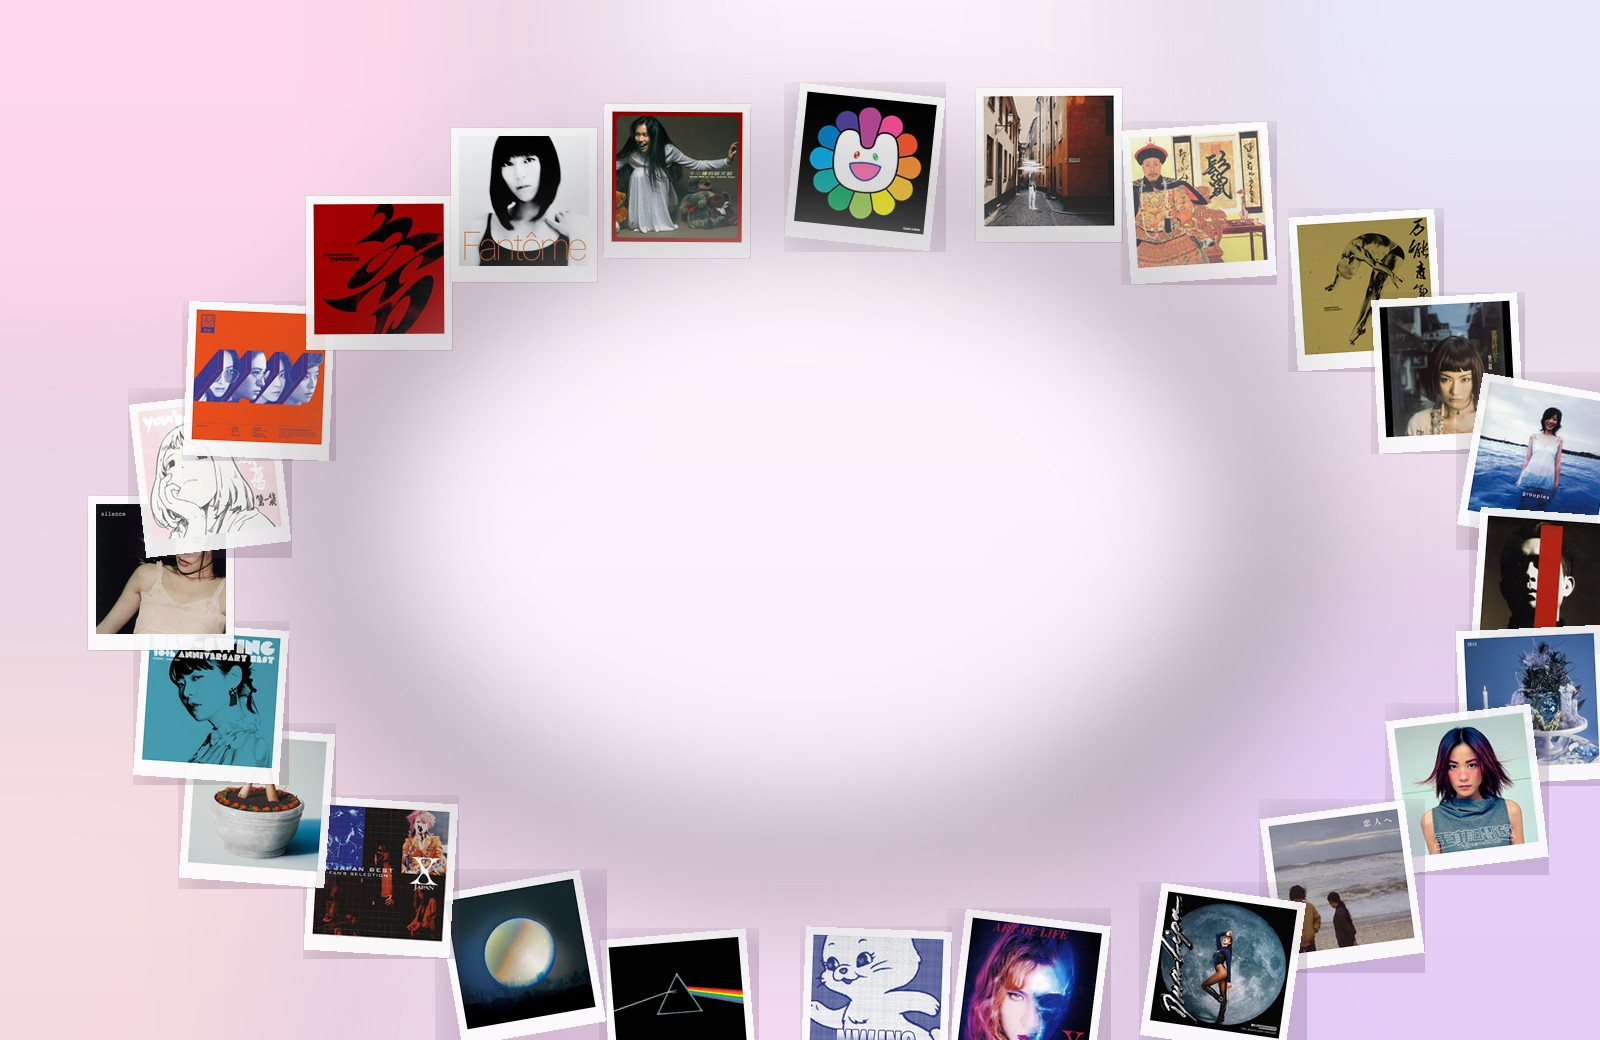
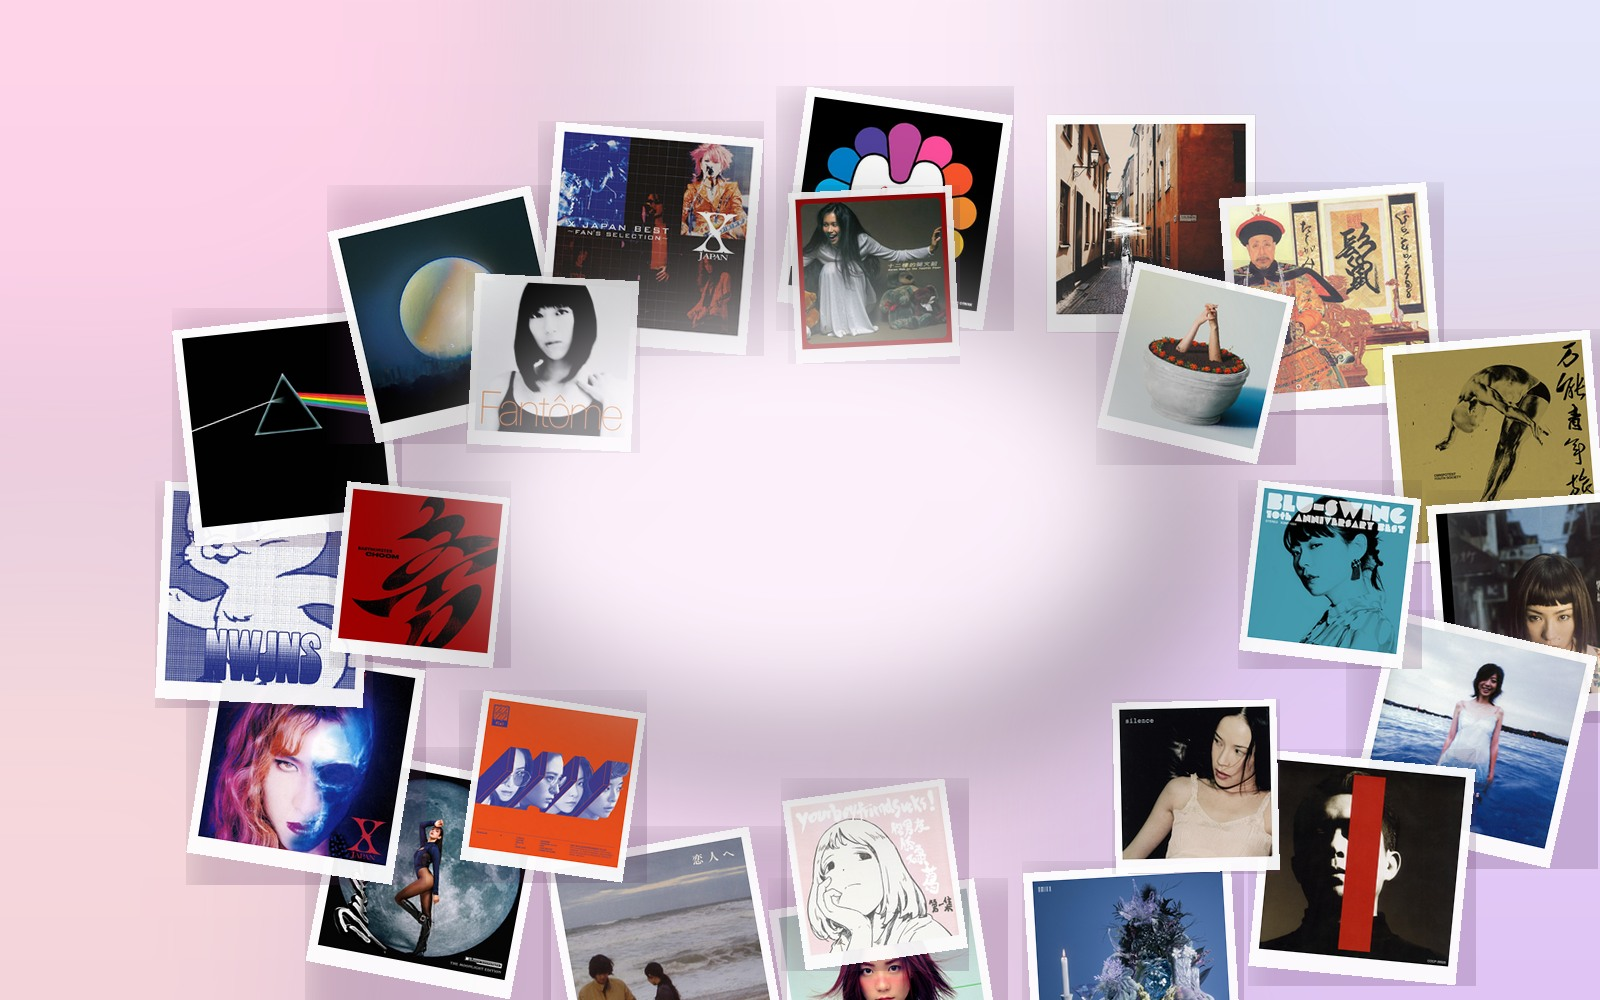
2.0: 封面占比放大+中间封面带+可拖动无封面播放器+像素装饰+修复播放器层级BUG

diff --git a/style.css b/style.css
@@ -160,18 +160,19 @@ body {
 /* ---------- Welcome：唱片拼贴墙 ---------- */
 .welcome {
   position: relative;
-  max-width: 880px;
-  margin: 4vh auto 0;
-  min-height: 500px;
+  max-width: 1080px;
+  margin: 3vh auto 0;
+  min-height: 640px;
   border-radius: 22px;
   overflow: hidden;
   display: flex;
   flex-direction: column;
   align-items: center;
   justify-content: center;
-  padding: 48px 32px 42px;
+  padding: 54px 32px 46px;
   text-align: center;
   border: 1px solid rgba(255,255,255,0.6);
+  /* 背景放大铺满，四周封面裁切少、占比高 */
   background: url('assets/supernatural-collage-bg.jpg') center/cover;
   box-shadow: 0 16px 50px rgba(120,80,130,0.18);
 }
@@ -183,6 +184,21 @@ body {
   animation: flow 8s linear infinite;
 }
 @keyframes flow { to { background-position: 200% 0; } }
+
+/* 像素装饰点缀（四周角落，避开中心文字） */
+.pixel-deco {
+  position: absolute; pointer-events: none; z-index: 1;
+  image-rendering: pixelated; image-rendering: crisp-edges;
+  filter: drop-shadow(0 4px 6px rgba(90,40,70,0.28));
+  animation: pdFloat 5s ease-in-out infinite;
+}
+@keyframes pdFloat { 0%,100% { transform: translateY(0); } 50% { transform: translateY(-7px); } }
+.pd-picklejar { left: 3.5%; bottom: 12%; width: 44px; animation-delay: 0s; }
+.pd-crystal   { right: 4%; top: 14%; width: 46px; animation-delay: 0.8s; }
+.pd-mushroom  { left: 5%; top: 18%; width: 40px; animation-delay: 1.6s; }
+.pd-spring    { right: 3.5%; bottom: 15%; width: 46px; animation-delay: 2.2s; }
+.pd-barrel    { left: 10%; top: 48%; width: 40px; animation-delay: 1.1s; opacity: 0.92; }
+.pd-tree      { right: 9%; bottom: 42%; width: 38px; animation-delay: 2.8s; opacity: 0.92; }
 
 /* 黑胶唱片装饰 */
 .vinyl-deco { position: absolute; top: 26px; right: 34px; width: 130px; height: 130px; opacity: 0.9; pointer-events: none; }
@@ -253,6 +269,21 @@ body {
   color: #6b5768; font-size: 12.5px; line-height: 1.7; margin-bottom: 22px; max-width: 560px;
   text-shadow: 0 1px 8px rgba(255,255,255,0.95);
 }
+
+/* 中间封面缩略图带 */
+.welcome-strip {
+  display: flex; align-items: center; justify-content: center; gap: 0;
+  margin: 2px 0 20px; max-width: 100%;
+}
+.welcome-strip img {
+  width: 62px; height: 62px; object-fit: cover; border-radius: 9px;
+  margin: 0 -6px; border: 2px solid #fff;
+  box-shadow: 0 4px 14px rgba(120,50,90,0.22);
+  transition: transform 0.2s, box-shadow 0.2s;
+}
+.welcome-strip img:nth-child(odd) { transform: translateY(4px) rotate(-5deg); }
+.welcome-strip img:nth-child(even) { transform: translateY(-4px) rotate(4deg); }
+.welcome-strip img:hover { transform: translateY(-10px) rotate(0) scale(1.12); box-shadow: 0 8px 22px rgba(120,50,90,0.34); z-index: 2; }
 
 .welcome-tips { display: flex; gap: 10px; justify-content: center; flex-wrap: wrap; max-width: 660px; }
 .tip-card {
@@ -385,10 +416,10 @@ body {
 
 /* ---------- Music Player ---------- */
 .music-player {
-  position: fixed; right: 22px; bottom: 96px; z-index: 25;
-  width: 230px; padding: 14px 15px 13px;
+  position: fixed; right: 22px; bottom: 168px; z-index: 60;
+  width: 224px; padding: 0 15px 13px;
   border-radius: 18px;
-  background: rgba(255,255,255,0.9);
+  background: rgba(255,255,255,0.92);
   border: 1px solid rgba(224,46,106,0.18);
   backdrop-filter: blur(16px);
   box-shadow: 0 14px 40px rgba(150,70,110,0.22);
@@ -396,21 +427,22 @@ body {
   transform-origin: bottom right;
 }
 .music-player.collapsed { transform: scale(0.6) translate(40px, 30px); opacity: 0; pointer-events: none; }
-body[data-theme="dark"] .music-player { background: rgba(28,26,36,0.92); border-color: rgba(255,77,126,0.25); }
+.music-player.dragging { transition: none; box-shadow: 0 18px 50px rgba(150,70,110,0.34); }
+body[data-theme="dark"] .music-player { background: rgba(28,26,36,0.94); border-color: rgba(255,77,126,0.25); }
+.mp-dragbar {
+  display: flex; align-items: center; gap: 7px;
+  padding: 10px 0 8px; cursor: grab; user-select: none;
+}
+.mp-dragbar:active { cursor: grabbing; }
+.mp-grip { color: var(--text-muted); font-size: 15px; line-height: 1; letter-spacing: -2px; }
+.mp-drag-label { flex: 1; font-size: 10px; letter-spacing: 2px; color: var(--text-muted); font-weight: 700; text-transform: uppercase; }
 .mp-collapse {
-  position: absolute; top: 8px; right: 9px; width: 22px; height: 22px;
+  width: 22px; height: 22px; flex-shrink: 0;
   border: none; background: transparent; color: var(--text-muted);
   cursor: pointer; font-size: 15px; line-height: 1; border-radius: 6px;
 }
 .mp-collapse:hover { background: var(--hover); color: var(--text); }
 .mp-head { display: flex; align-items: center; gap: 11px; }
-.mp-cover {
-  width: 50px; height: 50px; flex-shrink: 0; border-radius: 11px; overflow: hidden;
-  box-shadow: 0 4px 12px rgba(120,50,90,0.28); background: var(--hover);
-}
-.mp-cover img { width: 100%; height: 100%; object-fit: cover; display: block; }
-.mp-cover.spin img { animation: mpSpin 9s linear infinite; border-radius: 50%; }
-@keyframes mpSpin { to { transform: rotate(360deg); } }
 .mp-meta { min-width: 0; flex: 1; }
 .mp-song {
   font-size: 13px; font-weight: 700; color: var(--text);
@@ -442,7 +474,7 @@ body[data-theme="dark"] .music-player { background: rgba(28,26,36,0.92); border-
 }
 .mp-btn.mp-play:hover { color: #fff; filter: brightness(1.08); }
 .mp-fab {
-  position: fixed; right: 22px; bottom: 30px; z-index: 24;
+  position: fixed; right: 22px; bottom: 30px; z-index: 59;
   width: 46px; height: 46px; border-radius: 50%; border: none; cursor: pointer;
   background: linear-gradient(135deg, #ff4d7e, #ff7a5c); color: #fff;
   font-size: 20px; box-shadow: 0 6px 18px rgba(255,77,126,0.45);
@@ -463,6 +495,12 @@ body[data-theme="dark"] .music-player { background: rgba(28,26,36,0.92); border-
   .welcome { margin-top: 0; min-height: 480px; padding: 36px 18px 30px; }
   .welcome h1 { font-size: 29px; }
   .welcome-icon { width: 72px; height: 72px; }
+  .welcome-strip { margin-bottom: 16px; }
+  .welcome-strip img { width: 44px; height: 44px; margin: 0 -8px; }
+  .pixel-deco { width: 30px !important; opacity: 0.8; }
+  .pd-barrel, .pd-tree { display: none; }
+  .music-player { right: 12px; bottom: 84px; }
+  .mp-fab { right: 14px; bottom: 22px; }
   .model-badge { display: none; }
   .two-col { grid-template-columns: 1fr; }
 }

diff --git a/player.js b/player.js
@@ -1,18 +1,18 @@
-/* 腌鱼 · 悬浮音乐播放器 */
+/* 腌鱼 · 悬浮音乐播放器（可拖动 / 可收起） */
 (function () {
   var tracks = [
-    { song: 'Supernatural', artist: 'NewJeans', src: 'assets/music/01-supernatural.mp3', cover: 'assets/covers/01-newjeans-flower.jpg' },
-    { song: '丸ノ内サディスティック', artist: '椎名林檎', src: 'assets/music/02-marunouchi.mp3', cover: 'assets/covers/05-shiina-ringoku.jpg' },
-    { song: '寂寞的恋人啊', artist: '莫文蔚', src: 'assets/music/03-lonely-lover.mp3', cover: 'assets/covers/24-karenmok-12floor.jpg' },
-    { song: '映画と雨降りの朝', artist: 'GO!GO!7188', src: 'assets/music/04-rainy-morning.mp3', cover: 'assets/covers/02-alley-light.jpg' },
-    { song: 'Levitating', artist: 'Dua Lipa', src: 'assets/music/05-levitating.mp3', cover: 'assets/covers/15-bubble-city.jpg' },
-    { song: 'Stairway to Heaven', artist: 'Led Zeppelin', src: 'assets/music/06-stairway.mp3', cover: 'assets/covers/14-pinkfloyd.jpg' }
+    { song: 'Supernatural', artist: 'NewJeans', src: 'assets/music/01-supernatural.mp3' },
+    { song: '丸ノ内サディスティック', artist: '椎名林檎', src: 'assets/music/02-marunouchi.mp3' },
+    { song: '寂寞的恋人啊', artist: '莫文蔚', src: 'assets/music/03-lonely-lover.mp3' },
+    { song: '映画と雨降りの朝', artist: 'GO!GO!7188', src: 'assets/music/04-rainy-morning.mp3' },
+    { song: 'Levitating', artist: 'Dua Lipa', src: 'assets/music/05-levitating.mp3' },
+    { song: 'Stairway to Heaven', artist: 'Led Zeppelin', src: 'assets/music/06-stairway.mp3' }
   ];
 
   var $ = function (id) { return document.getElementById(id); };
   var panel = $('musicPlayer'), fab = $('mpFab');
+  var dragbar = $('mpDragbar');
   var audio = $('mpAudio');
-  var cover = $('mpCover'), coverBox = cover.parentNode;
   var songEl = $('mpSong'), artistEl = $('mpArtist');
   var playBtn = $('mpPlay'), prevBtn = $('mpPrev'), nextBtn = $('mpNext');
   var progress = $('mpProgress'), fill = $('mpProgressFill');
@@ -31,14 +31,13 @@
     audio.src = t.src;
     songEl.textContent = t.song;
     artistEl.textContent = t.artist;
-    cover.src = t.cover;
     fill.style.width = '0%';
     curEl.textContent = '0:00';
     durEl.textContent = '0:00';
     audio.load();
     if (autoplay) {
       var p = audio.play();
-      if (p && p.catch) p.catch(function () { /* 浏览器可能拦截自动播放 */ });
+      if (p && p.catch) p.catch(function () {});
     }
   }
 
@@ -53,14 +52,12 @@
 
   function updatePlayState() {
     playBtn.textContent = audio.paused ? '▶' : '❚❚';
-    coverBox.classList.toggle('spin', !audio.paused);
   }
 
-  // 事件
+  // 播放控制事件
   playBtn.addEventListener('click', toggle);
   prevBtn.addEventListener('click', function () { load(idx - 1, !audio.paused); });
   nextBtn.addEventListener('click', function () { load(idx + 1, !audio.paused); });
-
   audio.addEventListener('play', updatePlayState);
   audio.addEventListener('pause', updatePlayState);
   audio.addEventListener('ended', function () { load(idx + 1, true); });
@@ -71,6 +68,7 @@
     if (audio.duration) fill.style.width = (audio.currentTime / audio.duration * 100) + '%';
   });
 
+  // 进度条拖动 / 点击跳转
   function seek(e) {
     if (!audio.duration) return;
     var rect = progress.getBoundingClientRect();
@@ -87,13 +85,71 @@
   document.addEventListener('touchmove', function (e) { if (dragging) seek(e); }, { passive: true });
   document.addEventListener('touchend', function () { dragging = false; });
 
-  // 折叠 / 展开
+  // 折叠 / 展开（位置计时器独立）
   function setCollapsed(c) {
     panel.classList.toggle('collapsed', c);
     fab.classList.toggle('show', c);
   }
   $('mpCollapse').addEventListener('click', function () { setCollapsed(true); });
   fab.addEventListener('click', function () { setCollapsed(false); });
+
+  // ---------- 拖动面板 ----------
+  var pos = { left: null, top: null };   // null 表示用 CSS 默认 right/bottom
+  var drag = null;
+
+  function currentRect() {
+    var r = panel.getBoundingClientRect();
+    return { left: r.left, top: r.top };
+  }
+  function applyPos(left, top) {
+    pos.left = left; pos.top = top;
+    panel.style.right = 'auto';
+    panel.style.bottom = 'auto';
+    panel.style.left = left + 'px';
+    panel.style.top = top + 'px';
+  }
+  // 记住展开按钮位置，收起时把 fab 也移过去
+  function moveFabToPanel() {
+    var r = panel.getBoundingClientRect();
+    fab.style.right = 'auto';
+    fab.style.bottom = 'auto';
+    fab.style.left = Math.max(8, r.left + r.width - 46) + 'px';
+    fab.style.top = Math.max(8, r.top + r.height - 46) + 'px';
+  }
+
+  dragbar.addEventListener('pointerdown', function (e) {
+    if (e.target.closest('.mp-collapse')) return;
+    var r = currentRect();
+    drag = { startX: e.clientX, startY: e.clientY, left: r.left, top: r.top };
+    panel.classList.add('dragging');
+    dragbar.setPointerCapture(e.pointerId);
+  });
+  dragbar.addEventListener('pointermove', function (e) {
+    if (!drag) return;
+    var dx = e.clientX - drag.startX, dy = e.clientY - drag.startY;
+    var maxLeft = window.innerWidth - panel.offsetWidth - 6;
+    var maxTop = window.innerHeight - panel.offsetHeight - 6;
+    var l = Math.max(6, Math.min(maxLeft, drag.left + dx));
+    var t = Math.max(6, Math.min(maxTop, drag.top + dy));
+    applyPos(l, t);
+  });
+  function endDrag() {
+    if (!drag) return;
+    drag = null;
+    panel.classList.remove('dragging');
+    moveFabToPanel();
+  }
+  dragbar.addEventListener('pointerup', endDrag);
+  dragbar.addEventListener('pointercancel', endDrag);
+
+  // 窗口缩放时把面板拉回可视区
+  window.addEventListener('resize', function () {
+    if (pos.left === null) return;
+    var maxLeft = window.innerWidth - panel.offsetWidth - 6;
+    var maxTop = window.innerHeight - panel.offsetHeight - 6;
+    applyPos(Math.max(6, Math.min(maxLeft, pos.left)), Math.max(6, Math.min(maxTop, pos.top)));
+    moveFabToPanel();
+  });
 
   load(0, false);
 })();

diff --git a/index.html b/index.html
@@ -4,7 +4,7 @@
 <meta charset="UTF-8">
 <meta name="viewport" content="width=device-width, initial-scale=1.0">
 <title>腌鱼 · 音乐搭子</title>
-<link rel="stylesheet" href="style.css?v=1.8">
+<link rel="stylesheet" href="style.css?v=2.0">
 </head>
 <body>
 <div class="app">
@@ -25,7 +25,7 @@
 
     <div class="sidebar-bottom">
       <button class="side-link" id="settingsBtn"><span>⚙</span> 设置 / API</button>
-      <div class="side-note">所有数据仅保存在本机浏览器 · <span class="version-tag">v1.8</span></div>
+      <div class="side-note">所有数据仅保存在本机浏览器 · <span class="version-tag">v2.0</span></div>
     </div>
   </aside>
 
@@ -44,6 +44,13 @@
     <div class="messages" id="messages">
       <div class="welcome" id="welcome">
         <div class="vinyl-deco"><div class="vinyl-disc"><div class="vinyl-label"></div></div></div>
+        <!-- 像素装饰点缀 -->
+        <img class="pixel-deco pd-picklejar" src="assets/pixel-decor/picklejar.png" alt="">
+        <img class="pixel-deco pd-crystal" src="assets/pixel-decor/crystal.png" alt="">
+        <img class="pixel-deco pd-mushroom" src="assets/pixel-decor/mushroom.png" alt="">
+        <img class="pixel-deco pd-spring" src="assets/pixel-decor/spring.png" alt="">
+        <img class="pixel-deco pd-barrel" src="assets/pixel-decor/barrel.png" alt="">
+        <img class="pixel-deco pd-tree" src="assets/pixel-decor/tree.png" alt="">
         <div class="welcome-icon"></div>
         <div class="welcome-kicker">✦ Your Music Bestie ✦</div>
         <h1>嗨，我是 <em>腌鱼</em></h1>
@@ -57,6 +64,17 @@
         </div>
         <p class="welcome-quote">"听过你循环三千多次的歌，也记得你偷偷 mark 却没放的 NewJeans。"</p>
         <p class="welcome-desc">想聊歌、找歌、或者随便唠唠，我都在。</p>
+        <div class="welcome-strip" aria-hidden="true">
+          <img src="assets/covers/01-newjeans-flower.jpg" alt="">
+          <img src="assets/covers/05-shiina-ringoku.jpg" alt="">
+          <img src="assets/covers/09-wangfei-fable.jpg" alt="">
+          <img src="assets/covers/14-pinkfloyd.jpg" alt="">
+          <img src="assets/covers/06-aimyon-sea.jpg" alt="">
+          <img src="assets/covers/22-babymonster-choom.jpg" alt="">
+          <img src="assets/covers/17-hands-pot.jpg" alt="">
+          <img src="assets/covers/12-xjapan-artoflife.jpg" alt="">
+          <img src="assets/covers/24-karenmok-12floor.jpg" alt="">
+        </div>
         <div class="welcome-tips">
           <button class="tip-card" data-tip="你是谁？介绍一下你自己">🐟 你是谁</button>
           <button class="tip-card" data-tip="我听过《マリーゴールド》吗？听了多少次">🎵 查一首歌</button>
@@ -150,11 +168,14 @@
   </div>
 </div>
 
-<!-- 悬浮音乐播放器 -->
+<!-- 悬浮音乐播放器（可拖动 / 可收起） -->
 <div class="music-player" id="musicPlayer">
-  <button class="mp-collapse" id="mpCollapse" title="收起播放器">▾</button>
+  <div class="mp-dragbar" id="mpDragbar">
+    <span class="mp-grip">⠿</span>
+    <span class="mp-drag-label">正在播放</span>
+    <button class="mp-collapse" id="mpCollapse" title="收起播放器">▾</button>
+  </div>
   <div class="mp-head">
-    <div class="mp-cover"><img id="mpCover" src="assets/covers/01-newjeans-flower.jpg" alt=""></div>
     <div class="mp-meta">
       <div class="mp-song" id="mpSong">Supernatural</div>
       <div class="mp-artist" id="mpArtist">NewJeans</div>
@@ -173,8 +194,8 @@
 </div>
 <button class="mp-fab" id="mpFab" title="展开播放器">🎵</button>
 
-<script src="persona.js?v=1.8"></script>
-<script src="app.js?v=1.8"></script>
-<script src="player.js?v=1.8"></script>
+<script src="persona.js?v=2.0"></script>
+<script src="app.js?v=2.0"></script>
+<script src="player.js?v=2.0"></script>
 </body>
 </html>
